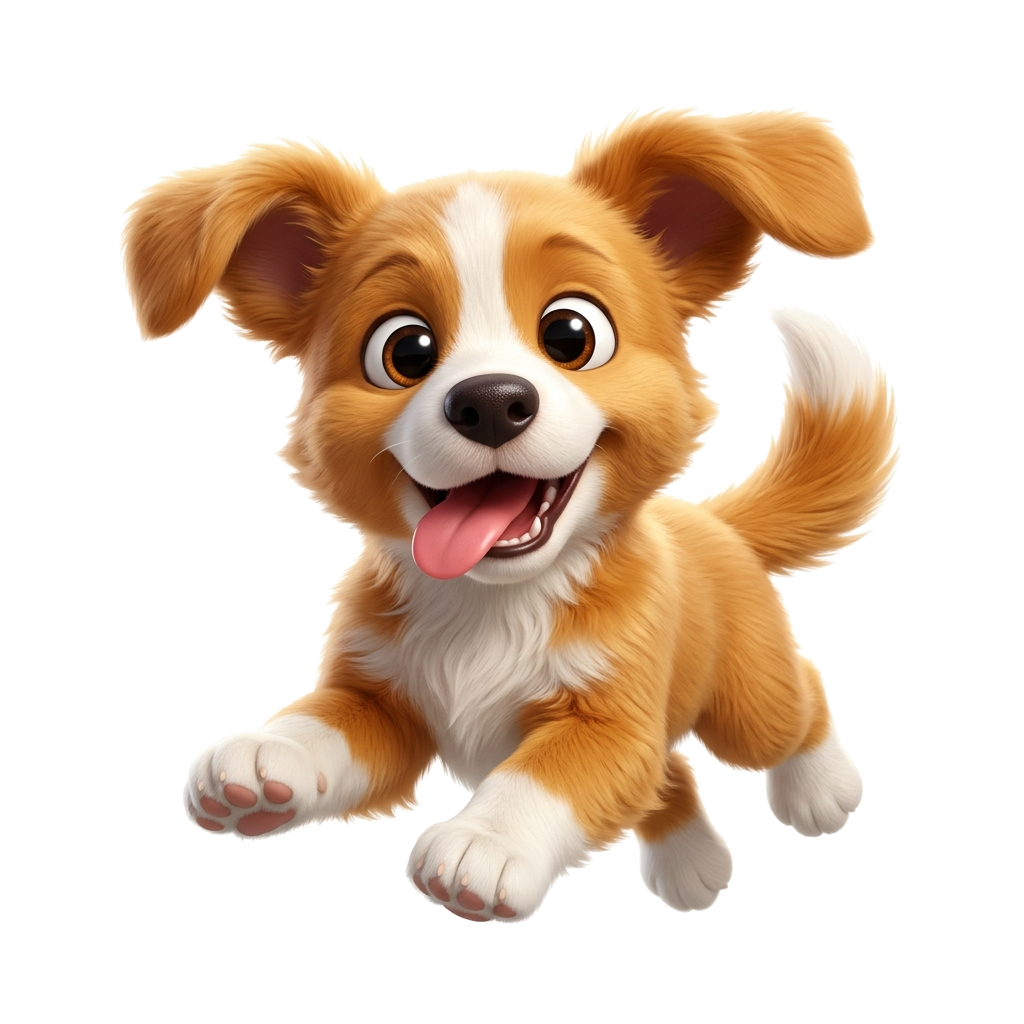
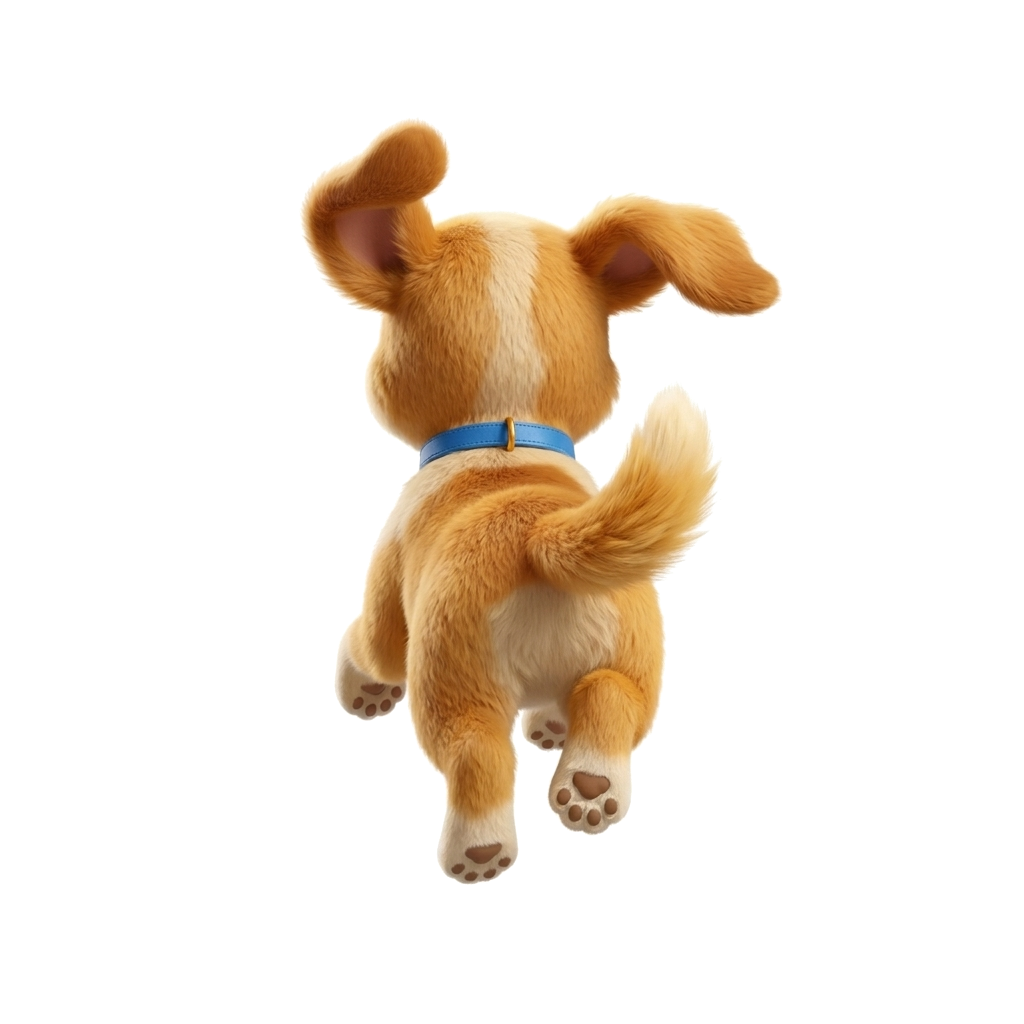
feat(run-mode): update dog sprite to forward-facing rear view, add rustic farm wood track, animated windmill, and cheering sideline animals

diff --git a/index.html b/index.html
@@ -4691,6 +4691,9 @@
       if (urlParams.get('testRun')) {
         setTimeout(() => { startRunSprintGame(); }, 300);
       }
+      if (urlParams.get('testRun')) {
+        setTimeout(() => { startRunSprintGame(); }, 300);
+      }
       if (urlParams.get('testRunVictory')) {
         setTimeout(() => { startRunSprintGame(); setTimeout(() => { triggerRunVictory(); }, 400); }, 300);
       }
@@ -4755,8 +4758,8 @@ const runDog = {
   targetLanePos: 0.0,
   z: 0.08,            // Foreground depth (0.04 to 0.14 adjustable with Up/Down)
   targetZ: 0.08,
-  baseW: 82,
-  baseH: 82,
+  baseW: 84,
+  baseH: 84,
   tilt: 0,            // Banking angle when steering
   trotPhase: 0,
   dustTimer: 0,
@@ -5254,6 +5257,140 @@ function spawnRunDustParticle(x, y) {
   });
 }
 
+// ==================== FARM WINDMILL & SIDELINE ANIMALS ====================
+function drawFarmWindmill(ctx, canvas, now) {
+  const w = canvas.width;
+  const h = canvas.height;
+  const horizonY = h * 0.28;
+  const millX = w * 0.16;
+  const millY = horizonY - 14;
+
+  ctx.save();
+  // Windmill Stone / Timber Tower
+  ctx.fillStyle = '#b45309';
+  ctx.beginPath();
+  ctx.moveTo(millX - 10, millY + 16);
+  ctx.lineTo(millX - 7, millY - 18);
+  ctx.lineTo(millX + 7, millY - 18);
+  ctx.lineTo(millX + 10, millY + 16);
+  ctx.closePath();
+  ctx.fill();
+  ctx.strokeStyle = '#78350f';
+  ctx.lineWidth = 1.5;
+  ctx.stroke();
+
+  // Thatched Roof
+  ctx.fillStyle = '#78350f';
+  ctx.beginPath();
+  ctx.moveTo(millX - 9, millY - 18);
+  ctx.lineTo(millX, millY - 28);
+  ctx.lineTo(millX + 9, millY - 18);
+  ctx.closePath();
+  ctx.fill();
+
+  // Arched Door & Window
+  ctx.fillStyle = '#451a03';
+  ctx.fillRect(millX - 3, millY + 6, 6, 10);
+  ctx.fillStyle = '#fef08a';
+  ctx.fillRect(millX - 3, millY - 10, 6, 6);
+
+  // Rotating 4 Lattice Blades
+  const bladeAngle = (now / 700) % (Math.PI * 2);
+  ctx.translate(millX, millY - 18);
+  ctx.rotate(bladeAngle);
+
+  ctx.strokeStyle = '#ffffff';
+  ctx.lineWidth = 2;
+  ctx.fillStyle = 'rgba(255, 255, 255, 0.85)';
+
+  for (let b = 0; b < 4; b++) {
+    ctx.rotate(Math.PI / 2);
+    // Blade Spar
+    ctx.beginPath();
+    ctx.moveTo(0, 0);
+    ctx.lineTo(0, -26);
+    ctx.stroke();
+    // Lattice Sail
+    ctx.fillRect(2, -25, 7, 20);
+    ctx.strokeRect(2, -25, 7, 20);
+  }
+
+  // Hub Pin
+  ctx.fillStyle = '#eab308';
+  ctx.beginPath();
+  ctx.arc(0, 0, 3, 0, Math.PI * 2);
+  ctx.fill();
+
+  ctx.restore();
+}
+
+function drawSidelineCheeringAnimals(ctx, canvas, now) {
+  // Cheering spectator animals stationed on the grass borders of the race
+  const cheeringLeft = [
+    { key: 'cows', emoji: '\uD83D\uDC04', lanePos: -1.35, z: 0.38, size: 48, animOffset: 0 },
+    { key: 'sheep', emoji: '\uD83D\uDC11', lanePos: -1.28, z: 0.20, size: 42, animOffset: 1.5 },
+    { key: 'bunny', emoji: '\uD83D\uDC30', lanePos: -1.24, z: 0.09, size: 38, animOffset: 2.8 }
+  ];
+
+  const cheeringRight = [
+    { key: 'horse', emoji: '\uD83D\uDC0E', lanePos: 1.35, z: 0.44, size: 50, animOffset: 0.8 },
+    { key: 'pig', emoji: '\uD83D\uDC37', lanePos: 1.28, z: 0.24, size: 44, animOffset: 2.1 },
+    { key: 'chicken', emoji: '\uD83D\uDC14', lanePos: 1.22, z: 0.11, size: 36, animOffset: 3.5 }
+  ];
+
+  const allSpectators = cheeringLeft.concat(cheeringRight);
+
+  allSpectators.forEach(spec => {
+    const proj = projectRun3D(spec.lanePos, spec.z, canvas);
+    const scale = proj.scale;
+    const renderSize = spec.size * scale;
+    const cheerBob = Math.sin(now / 160 + spec.animOffset) * (4 * scale);
+
+    ctx.save();
+    ctx.translate(proj.screenX, proj.screenY);
+
+    // Ground Shadow on Grass
+    ctx.fillStyle = 'rgba(0, 0, 0, 0.30)';
+    ctx.beginPath();
+    ctx.ellipse(0, renderSize * 0.42, renderSize * 0.45, renderSize * 0.14, 0, 0, Math.PI * 2);
+    ctx.fill();
+
+    // 3D Circular Cheering Badge
+    const img = runAnimalImages[spec.key];
+    ctx.save();
+    ctx.beginPath();
+    ctx.arc(0, -cheerBob, renderSize * 0.44, 0, Math.PI * 2);
+    ctx.clip();
+    if (img && img.complete && img.naturalWidth > 0) {
+      ctx.drawImage(img, -renderSize * 0.52, -renderSize * 0.52 - cheerBob, renderSize * 1.05, renderSize * 1.05);
+    }
+    ctx.restore();
+
+    // Golden Rim
+    ctx.save();
+    ctx.beginPath();
+    ctx.arc(0, -cheerBob, renderSize * 0.44, 0, Math.PI * 2);
+    ctx.strokeStyle = '#eab308';
+    ctx.lineWidth = Math.max(1.5, 2.5 * scale);
+    ctx.stroke();
+
+    // Floating Cheering Emoji / Star
+    ctx.font = Math.max(9, Math.floor(13 * scale)) + 'px sans-serif';
+    ctx.textAlign = 'center';
+    ctx.textBaseline = 'middle';
+    ctx.fillText(spec.emoji, 0, -renderSize * 0.55 - cheerBob);
+
+    // Little Cheering Sparkle
+    if (Math.sin(now / 200 + spec.animOffset) > 0.4) {
+      ctx.font = Math.max(8, Math.floor(11 * scale)) + 'px sans-serif';
+      ctx.fillText('\u2728', (spec.lanePos < 0 ? 12 : -12) * scale, -renderSize * 0.7 - cheerBob);
+    }
+    ctx.restore();
+
+    ctx.restore();
+  });
+}
+
 // ==================== 3D RENDERING ====================
 function drawRun3DScene(ctx, canvas, now) {
   const w = canvas.width;
@@ -5304,7 +5441,10 @@ function drawRun3DScene(ctx, canvas, now) {
   ctx.lineTo(w * 0.18 + 17, horizonY - 12);
   ctx.fill();
 
-  // 2. 3D ROAD SEGMENTS WITH PERSPECTIVE SLICES
+  // 1.5 DRAW FARM WINDMILL ON HILLSIDE
+  drawFarmWindmill(ctx, canvas, now);
+
+  // 2. RUSTIC FARM WOODEN BOARDWALK (PLANK ROAD - NO STADIUM LINES)
   const numSlices = 24;
   const sliceZStep = 1.0 / numSlices;
   const scrollOffset = (runWorldDistance * 0.35) % sliceZStep;
@@ -5313,7 +5453,7 @@ function drawRun3DScene(ctx, canvas, now) {
   ctx.fillStyle = '#3f6212';
   ctx.fillRect(0, horizonY, w, h - horizonY);
 
-  // Render road slices from horizon (z=1) down to camera (z=0)
+  // Render wooden plank slices from horizon (z=1) down to camera (z=0)
   for (let s = numSlices; s >= 0; s--) {
     const zFar = Math.max(0, Math.min(1.0, (s * sliceZStep) + scrollOffset));
     const zNear = Math.max(0, Math.min(1.0, ((s - 1) * sliceZStep) + scrollOffset));
@@ -5324,12 +5464,12 @@ function drawRun3DScene(ctx, canvas, now) {
 
     const isEven = (s % 2 === 0);
 
-    // Lush Shoulder Grass (Alternating tones)
+    // Lush Shoulder Grass with Wildflowers
     ctx.fillStyle = isEven ? '#4d7c0f' : '#3f6212';
     ctx.fillRect(0, pFar.screenY, w, pNear.screenY - pFar.screenY + 1);
 
-    // Dirt Road Bed
-    ctx.fillStyle = isEven ? '#c89552' : '#bc8441';
+    // Rustic Wood Planks (Alternating rich warm timber tones)
+    ctx.fillStyle = isEven ? '#a16207' : '#854d0e';
     ctx.beginPath();
     ctx.moveTo(pFar.screenX - pFar.roadW / 2, pFar.screenY);
     ctx.lineTo(pFar.screenX + pFar.roadW / 2, pFar.screenY);
@@ -5337,18 +5477,22 @@ function drawRun3DScene(ctx, canvas, now) {
     ctx.lineTo(pNear.screenX - pNear.roadW / 2, pNear.screenY + 1);
     ctx.fill();
 
-    // Road Edge Curbs (Rustic Timber / Red-White Curbs)
-    const curbWFar = 6 * pFar.scale;
-    const curbWNear = 6 * pNear.scale;
-    ctx.fillStyle = isEven ? '#ef4444' : '#f9fafb';
-    // Left Curb
+    // Dark Horizontal Wooden Plank Gap / Seam
+    ctx.fillStyle = '#3d1e05';
+    ctx.fillRect(pFar.screenX - pFar.roadW / 2, pFar.screenY, pFar.roadW, Math.max(1, 1.8 * pFar.scale));
+
+    // Solid Rustic Timber Log Curbs on Left & Right
+    const curbWFar = 8 * pFar.scale;
+    const curbWNear = 8 * pNear.scale;
+    ctx.fillStyle = '#5c2e0b';
+    // Left Timber Log
     ctx.beginPath();
     ctx.moveTo(pFar.screenX - pFar.roadW / 2 - curbWFar, pFar.screenY);
     ctx.lineTo(pFar.screenX - pFar.roadW / 2, pFar.screenY);
     ctx.lineTo(pNear.screenX - pNear.roadW / 2, pNear.screenY + 1);
     ctx.lineTo(pNear.screenX - pNear.roadW / 2 - curbWNear, pNear.screenY + 1);
     ctx.fill();
-    // Right Curb
+    // Right Timber Log
     ctx.beginPath();
     ctx.moveTo(pFar.screenX + pFar.roadW / 2, pFar.screenY);
     ctx.lineTo(pFar.screenX + pFar.roadW / 2 + curbWFar, pFar.screenY);
@@ -5356,27 +5500,28 @@ function drawRun3DScene(ctx, canvas, now) {
     ctx.lineTo(pNear.screenX + pNear.roadW / 2, pNear.screenY + 1);
     ctx.fill();
 
-    // Dashed White Lane Divider Lines (-0.33 and +0.33)
-    if (isEven) {
-      ctx.fillStyle = 'rgba(255, 255, 255, 0.70)';
-      [-0.33, 0.33].forEach(laneX => {
-        const pLaneFar = projectRun3D(laneX, zFar, canvas);
-        const pLaneNear = projectRun3D(laneX, zNear, canvas);
-        const dashW = Math.max(1.5, 3 * pNear.scale);
-        ctx.beginPath();
-        ctx.moveTo(pLaneFar.screenX - dashW / 2, pLaneFar.screenY);
-        ctx.lineTo(pLaneFar.screenX + dashW / 2, pLaneFar.screenY);
-        ctx.lineTo(pLaneNear.screenX + dashW / 2, pLaneNear.screenY);
-        ctx.lineTo(pLaneNear.screenX - dashW / 2, pLaneNear.screenY);
-        ctx.fill();
-      });
-    }
+    // Natural Rustic Wood Seams for 3-Lane Guides (Subtle dark timber joints, NO white lines!)
+    [-0.33, 0.33].forEach(laneX => {
+      const pLaneFar = projectRun3D(laneX, zFar, canvas);
+      const pLaneNear = projectRun3D(laneX, zNear, canvas);
+      const seamW = Math.max(1, 2 * pNear.scale);
+      ctx.fillStyle = 'rgba(61, 30, 5, 0.45)';
+      ctx.beginPath();
+      ctx.moveTo(pLaneFar.screenX - seamW / 2, pLaneFar.screenY);
+      ctx.lineTo(pLaneFar.screenX + seamW / 2, pLaneFar.screenY);
+      ctx.lineTo(pLaneNear.screenX + seamW / 2, pLaneNear.screenY);
+      ctx.lineTo(pLaneNear.screenX - seamW / 2, pLaneNear.screenY);
+      ctx.fill();
+    });
 
-    // Roadside Wooden Fence Posts (Every 3 slices)
+    // Roadside Rustic Wooden Fence Posts
     if (s % 3 === 0) {
       drawRoadsideFences(ctx, pFar, pNear);
     }
   }
+
+  // 2.5 DRAW SIDELINE CHEERING FARM ANIMALS
+  drawSidelineCheeringAnimals(ctx, canvas, now);
 
   // 3. DEPTH-SORT ALL 3D OBJECTS (Desc: Horizon z=1.0 down to Camera z=0.0)
   const renderList = [];
